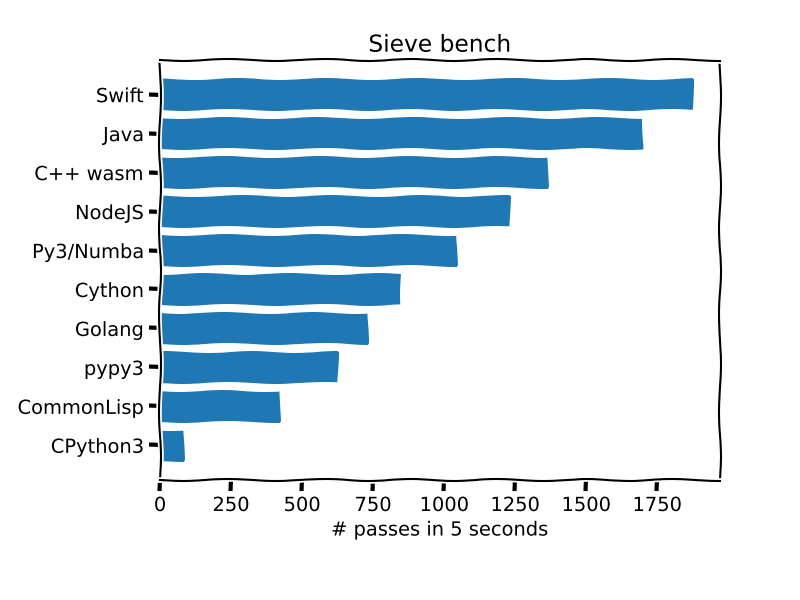
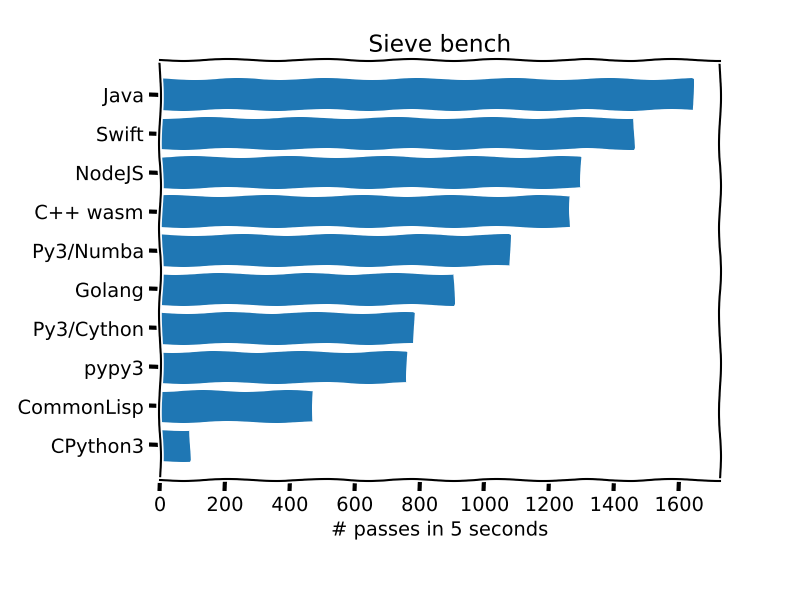
deploy: 0309d58657931b57a9a5ed5266b8de675817faa3

diff --git a/results/index.html b/results/index.html
@@ -279,19 +279,23 @@ Description:    Ubuntu 20.04.3 LTS
 Release:    20.04
 Codename:   focal
 
-Linux fv-az129-677 5.11.0-1028-azure #31~20.04.2-Ubuntu SMP Tue Jan 18 08:46:15 UTC 2022 x86_64 x86_64 x86_64 GNU/Linux
+Linux fv-az296-497 5.11.0-1028-azure #31~20.04.2-Ubuntu SMP Tue Jan 18 08:46:15 UTC 2022 x86_64 x86_64 x86_64 GNU/Linux
 
 
-1877
-Swift
-Swift version 5.5.3 (swift-5.5.3-RELEASE)
-Target: x86_64-unknown-linux-gnu
-
-1701
+1644
 Java
 openjdk 11.0.14.1 2022-02-08
 OpenJDK Runtime Environment Temurin-11.0.14.1+1 (build 11.0.14.1+1)
 OpenJDK 64-Bit Server VM Temurin-11.0.14.1+1 (build 11.0.14.1+1, mixed mode)
+
+1462
+Swift
+Swift version 5.5.3 (swift-5.5.3-RELEASE)
+Target: x86_64-unknown-linux-gnu
+
+1299
+NodeJS
+v16.14.0
 
 C++
 g++ (Ubuntu 9.3.0-17ubuntu1~20.04) 9.3.0
@@ -299,68 +303,64 @@ Copyright (C) 2019 Free Software Foundation, Inc.
 This is free software; see the source for copying conditions.  There is NO
 warranty; not even for MERCHANTABILITY or FITNESS FOR A PARTICULAR PURPOSE.
 
-1364
+1265
 C++ wasm
 emcc (Emscripten gcc/clang-like replacement + linker emulating GNU ld) 3.1.6 (c102a423a06d9833a8481d6859888bebf22842b0)
 Copyright (C) 2014 the Emscripten authors (see AUTHORS.txt)
 This is free and open source software under the MIT license.
 There is NO warranty; not even for MERCHANTABILITY or FITNESS FOR A PARTICULAR PURPOSE.
 
-1232
-NodeJS
-v16.14.0
-
-85
+94
 CPython3
 Python 3.8.10
 
-1044
+1080
 Py3/Numba
 Python 3.8.10
 Numba 0.55.1
 
-625
+762
 pypy3
 Python 3.6.9 (7.3.1+dfsg-4, Apr 22 2020, 05:15:29)
 [PyPy 7.3.1 with GCC 9.3.0]
 
-848
-Cython
-Cython 0.29.28
-Python 3.8.10
-
-732
+907
 Golang
 go version go1.13.8 linux/amd64
 
-85
+783
+Py3/Cython
+Cython 0.29.28
+Python 3.8.10
+
+94
 CPython3
 Python 3.8.10
 
-1044
+1080
 Py3/Numba
 Python 3.8.10
 Numba 0.55.1
 
-625
+762
 pypy3
 Python 3.6.9 (7.3.1+dfsg-4, Apr 22 2020, 05:15:29)
 [PyPy 7.3.1 with GCC 9.3.0]
 
-421
+473
 CommonLisp
 SBCL 2.0.1.debian
 
-85
+94
 CPython3
 Python 3.8.10
 
-1044
+1080
 Py3/Numba
 Python 3.8.10
 Numba 0.55.1
 
-625
+762
 pypy3
 Python 3.6.9 (7.3.1+dfsg-4, Apr 22 2020, 05:15:29)
 [PyPy 7.3.1 with GCC 9.3.0]
